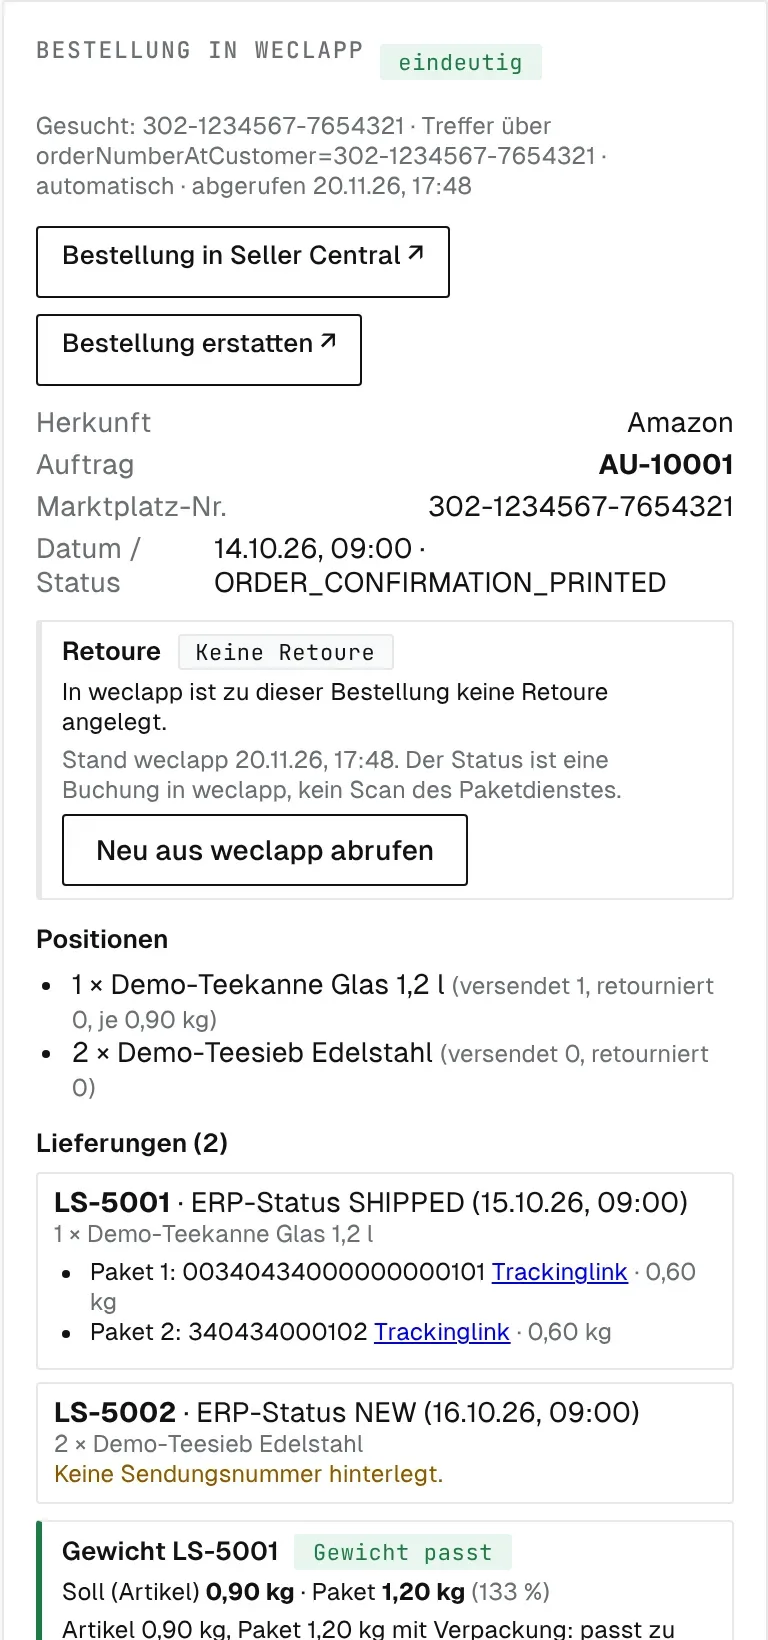
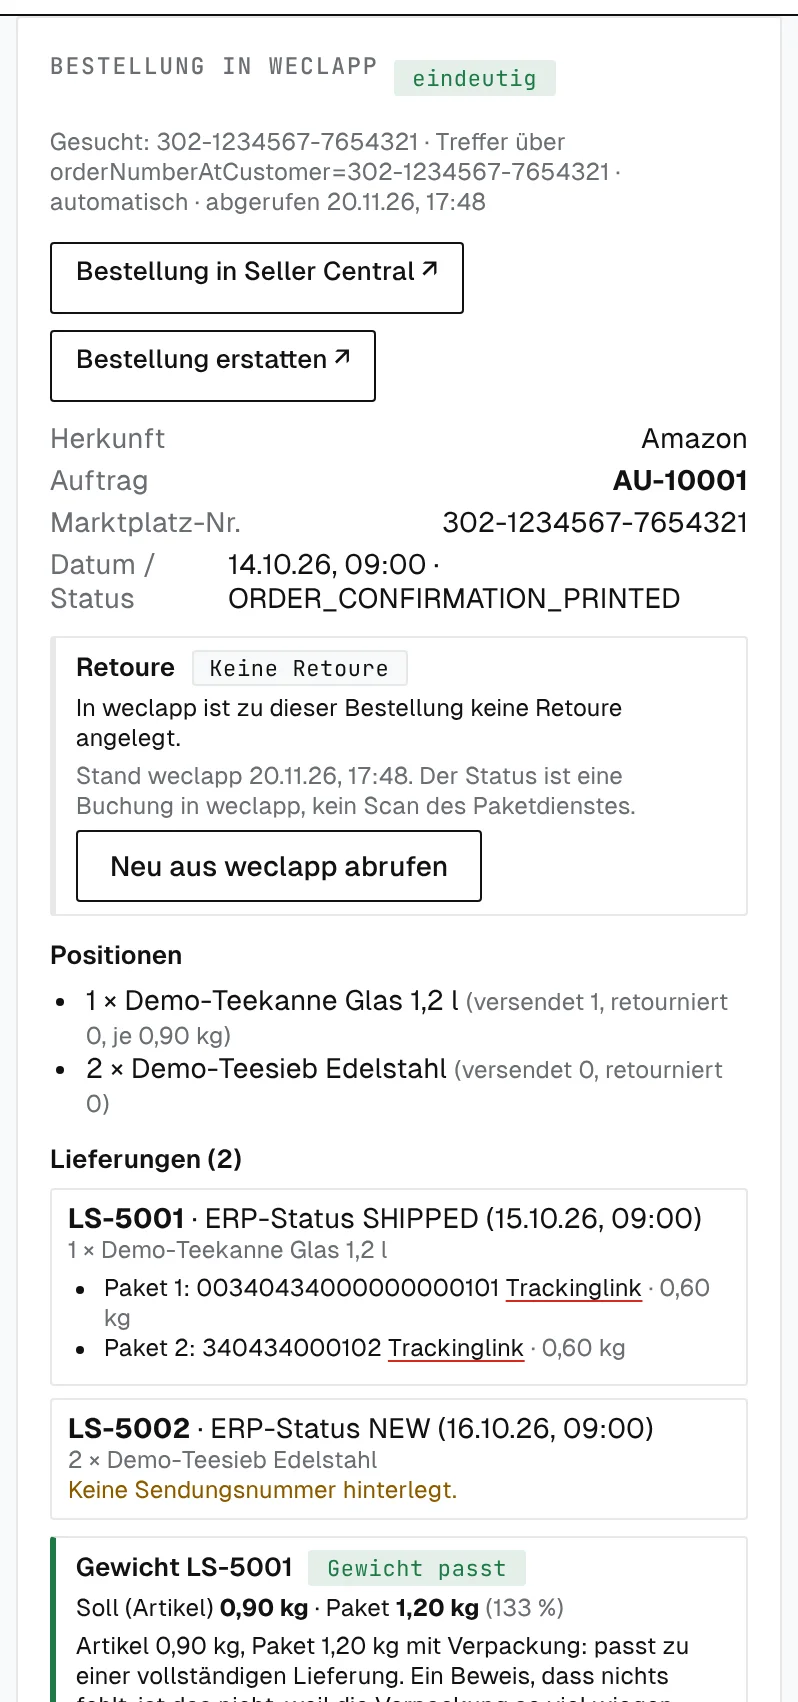
SupportX page: new themes and screenshot crops, lightbox, refund text
Claude-Session: https://claude.ai/code/session_01JnJhZpiW9LUHGCpXo7Yde3

Changed region(s): [[0.0312, 0.0, 0.9062, 1.0], [0.5625, 0.2488, 0.9688, 0.311]]

diff --git a/supportx/index.html b/supportx/index.html
@@ -88,7 +88,7 @@ section.block{padding:112px 0}
 .row ul{margin:20px 0 0;padding:0;list-style:none;display:grid;gap:10px;color:var(--graphite);font-size:16px}
 .row li{padding-left:20px;position:relative}
 .row li::before{content:"";position:absolute;left:0;top:.62em;width:6px;height:6px;background:var(--ink)}
-.row .tall{max-width:360px;margin:0 auto}
+.row .tall{max-width:400px;margin:0 auto}
 @media (max-width:900px){.row,.row.flip{grid-template-columns:1fr;gap:32px}.row.flip .text{order:0}}
 
 /* Feature list */
@@ -102,7 +102,8 @@ section.block{padding:112px 0}
 
 /* Design */
 .paper{background:var(--paper);border-top:1px solid var(--line);border-bottom:1px solid var(--line)}
-.themes{display:grid;grid-template-columns:repeat(3,1fr);gap:24px}
+.themes{display:grid;grid-template-columns:1fr 1fr;gap:24px}
+.themes figure:first-child{grid-column:1 / -1}
 .themes figure{margin:0}
 @media (max-width:900px){.themes{grid-template-columns:1fr}}
 .design-how{display:grid;grid-template-columns:1fr 1fr;gap:48px;margin-top:72px;align-items:start}
@@ -174,6 +175,17 @@ footer nav{display:flex;flex-wrap:wrap;gap:8px 24px}
 footer a{text-decoration:none;color:var(--graphite)}
 footer a:hover{color:var(--ink)}
 .by{font-family:var(--mono);font-size:11px;letter-spacing:.06em;text-transform:uppercase}
+
+/* Lightbox */
+.shot img{cursor:zoom-in}
+dialog.lb{border:0;padding:0;background:transparent;max-width:min(96vw,1800px);max-height:94vh;overflow:visible}
+dialog.lb::backdrop{background:rgb(17 17 17 / .86)}
+dialog.lb img{max-width:min(96vw,1800px);max-height:88vh;width:auto;height:auto;border-radius:var(--r-m);outline:1px solid rgb(255 255 255 / .1);cursor:zoom-out;background:#fff}
+dialog.lb p{color:#d0d3da;font-size:14px;margin-top:10px;max-width:90ch}
+dialog.lb button{position:fixed;top:16px;right:16px;width:44px;height:44px;border:1px solid #2a2a2a;border-radius:var(--r-s);background:#111;color:#fff;font:500 22px var(--sans);cursor:pointer}
+dialog.lb[open]{animation:lbin var(--duration-fast) var(--ease-smooth-out)}
+@keyframes lbin{from{opacity:0;transform:scale(.97)}}
+@media (prefers-reduced-motion:reduce){dialog.lb[open]{animation:none}}
 </style>
 </head>
 <body>
@@ -200,7 +212,7 @@ footer a:hover{color:var(--ink)}
   <div class="wrap">
     <span class="mono eyebrow">Open Source · AGPLv3 · selbst gehostet</span>
     <h1>Ein Posteingang für alle Marktplätze. <span>Mit der Bestellung im Fall.</span></h1>
-    <p class="lead">SupportX sammelt Kundenmails und Marktplatz-Nachrichten an einem Ort, sucht die passende Bestellung in weclapp und schreibt einen Antwortentwurf, der nur belegte Fakten nennt. Ein Mensch prüft und sendet. Läuft auf Ihrem Server, sieht aus wie Ihre Marke, der Code liegt offen.</p>
+    <p class="lead">SupportX sammelt Kundenmails und Marktplatz-Nachrichten an einem Ort, sucht die passende Bestellung in weclapp und schreibt einen Antwortentwurf, der nur belegte Fakten nennt. Ein Mensch prüft und sendet. Erstattungen gehen direkt im Marktplatz raus, die Gutschrift landet im ERP. Läuft auf Ihrem Server, sieht aus wie Ihre Marke, der Code liegt offen.</p>
     <div class="ctas">
       <a class="btn btn-primary" href="https://github.com/tradex-ag/SupportX">Code auf GitHub</a>
       <a class="btn btn-line" href="https://tradexag.ch/termin/">Gehostete Version anfragen</a>
@@ -209,7 +221,7 @@ footer a:hover{color:var(--ink)}
       <span>Kostenlos selbst hosten</span><span>Design frei anpassbar</span><span>Daten bleiben bei Ihnen</span>
     </div>
     <figure class="shot" style="margin-bottom:0">
-      <img src="img/posteingang.webp" width="2400" height="1500" alt="SupportX Posteingang: links die Liste der Anfragen mit Kanal, Anliegen und Frist, rechts ein Amazon-Fall mit Kundennachricht, Verlauf und der zugeordneten Bestellung aus weclapp">
+      <img src="img/posteingang.webp" width="2400" height="1067" alt="SupportX Posteingang: links die Liste der Anfragen mit Kanal, Anliegen und Frist, rechts ein Amazon-Fall mit Kundennachricht, Verlauf und der zugeordneten Bestellung aus weclapp">
     </figure>
     <figcaption>Posteingang mit geöffnetem Amazon-Fall. Echte Oberfläche, Demo-Installation mit erfundenen Kunden und Bestellungen.</figcaption>
   </div>
@@ -244,7 +256,7 @@ footer a:hover{color:var(--ink)}
           <li>Kundenhistorie aus früheren Fällen</li>
         </ul>
       </div>
-      <figure class="shot tall" style="margin:0 auto"><img src="img/bestellung.webp" width="768" height="1640" loading="lazy" alt="Bestellkarte in SupportX mit weclapp-Auftrag, Positionen, zwei Lieferungen, Gewichtsprüfung, Rechnung und DHL-Zustellstatus"></figure>
+      <figure class="shot tall" style="margin:0 auto"><img src="img/bestellung.webp" width="798" height="1702" loading="lazy" alt="Bestellkarte in SupportX mit weclapp-Auftrag, Positionen, zwei Lieferungen, Gewichtsprüfung, Rechnung und DHL-Zustellstatus"></figure>
     </div>
 
     <div class="row flip">
@@ -256,9 +268,10 @@ footer a:hover{color:var(--ink)}
           <li>Senden mit einem Klick, höchstens eine Antwort je Kundennachricht</li>
           <li>Antwort geht über den Weg, auf dem die Frage kam</li>
           <li>Versand bleibt aus, bis er je Kanal geprüft und freigeschaltet ist</li>
+          <li>Kunde hat recht? Erstattung direkt im Marktplatz auslösen, Gutschrift im ERP</li>
         </ul>
       </div>
-      <figure class="shot" style="margin:0"><img src="img/antwort.webp" width="2400" height="1500" loading="lazy" alt="Antwortbereich in SupportX mit Entscheidungsknöpfen, Entwurfstext, Anhang, belegten Fakten und dem gelben Hinweis, warum Senden noch gesperrt ist"></figure>
+      <figure class="shot tall" style="margin:0 auto"><img src="img/antwort.webp" width="1226" height="1744" loading="lazy" alt="Antwortbereich in SupportX mit Entscheidungsknöpfen, Entwurfstext, Anhang, belegten Fakten und dem gelben Hinweis, warum Senden noch gesperrt ist"></figure>
     </div>
 
     <div class="row">
@@ -267,19 +280,19 @@ footer a:hover{color:var(--ink)}
         <h3>Sehen, wo es klemmt.</h3>
         <p>Antwortzeit, eingehaltene Fristen, Anliegen je Kanal und Probleme je Artikel aus weclapp. So fällt auf, welcher Artikel öfter beschädigt ankommt oder falsch geliefert wird.</p>
       </div>
-      <figure class="shot" style="margin:0"><img src="img/auswertung.webp" width="2400" height="1500" loading="lazy" alt="Auswertungsseite mit Antwortzeit, Anliegen, Kanälen und Problemen je Artikel"></figure>
+      <figure class="shot" style="margin:0"><img src="img/auswertung.webp" width="2400" height="1100" loading="lazy" alt="Auswertungsseite mit Antwortzeit, Anliegen, Kanälen und Problemen je Artikel"></figure>
     </div>
 
     <div class="list" style="margin-top:56px">
       <div><h3>Fristen-Ampel</h3><p>Antwortfrist je Marktplatz, Amazon 24 Stunden. Was zuerst abläuft, steht oben.</p></div>
       <div><h3>Textbausteine</h3><p>Platzhalter wie {Bestellnummer} oder {Trackinglink} füllt SupportX aus weclapp, ohne KI-Kosten.</p></div>
       <div><h3>Rechnung senden</h3><p>Holt das Rechnungs-PDF der Bestellung aus weclapp und hängt es an die Antwort.</p></div>
-      <div><h3>Erstattungsliste</h3><p>Jede Erstattung einmal je Bestellung, bis die Gutschrift in weclapp angelegt ist.</p></div>
-      <div><h3>Amazon aus dem Fall</h3><p>Falsches Angebot beenden oder eine Erstattung auslösen, immer mit Bestätigung, nie automatisch.</p></div>
+      <div><h3>Erstatten im Marktplatz</h3><p>Erstattung aus dem Fall direkt bei Amazon auslösen, je Artikel und Versand, nie mehr als bezahlt. Mit Bestätigung, nie automatisch.</p></div>
+      <div><h3>Gutschrift im ERP</h3><p>Nach der Erstattung schlägt SupportX die Gutschrift je Rechnungsposition vor und legt sie in weclapp als Entwurf an. Die Erstattungsliste zeigt, was noch offen ist.</p></div>
       <div><h3>Telefon-Hotline</h3><p>Ein Sprachagent beantwortet Lieferstatus und Rechnung, erst nach Abgleich mit weclapp.</p></div>
+      <div><h3>Falsches Angebot beenden</h3><p>Stimmt das Amazon-Angebot nicht, lässt es sich aus dem Fall heraus beenden, nach einer Bestätigung.</p></div>
       <div><h3>Weiterleiten</h3><p>Mails an Lieferanten oder Spediteure weitergeben, Marktplatz-Relays ohne E-Mail-Adressen.</p></div>
-      <div><h3>Team</h3><p>Rollen Inhaber, Bearbeiter, Leser. Sichtbar, wer einen Fall gerade offen hat.</p></div>
-      <div><h3>Arbeitsbereiche</h3><p>Mehrere Händlerkonten sauber getrennt, Zugangsdaten verschlüsselt auf dem Server.</p></div>
+      <div><h3>Team und Mandanten</h3><p>Rollen Inhaber, Bearbeiter, Leser. Mehrere Händlerkonten sauber getrennt, Zugangsdaten verschlüsselt auf dem Server.</p></div>
     </div>
   </div>
 </section>
@@ -292,9 +305,9 @@ footer a:hover{color:var(--ink)}
       <p class="lead">Name, Logo, Farben, Schriften und Eckenradius stehen in einer Datei, nicht im Code. Ein Update überschreibt sie nicht. Wer mehr will, ändert den Quellcode: Er liegt offen.</p>
     </div>
     <div class="themes">
-      <figure><div class="shot"><img src="img/posteingang.webp" width="2400" height="1500" loading="lazy" alt="SupportX im Standard-Design: Schwarz, Weiß, rotes Signal"></div><figcaption>Standard</figcaption></figure>
-      <figure><div class="shot"><img src="img/theme-gruen.webp" width="2400" height="1500" loading="lazy" alt="Dieselbe Oberfläche als „Kundenservice“ in Grün mit runderen Ecken"></div><figcaption>„Kundenservice“ in Grün, Radius 8</figcaption></figure>
-      <figure><div class="shot"><img src="img/theme-blau.webp" width="2400" height="1500" loading="lazy" alt="Dieselbe Oberfläche als „Apotheken-Service“ in Blau mit stark gerundeten Ecken"></div><figcaption>„Apotheken-Service“ in Blau, Radius 14</figcaption></figure>
+      <figure><div class="shot"><img src="img/theme-dunkel.webp" width="2400" height="1067" loading="lazy" alt="SupportX als „Help Desk“ im dunklen Design mit gelbem Akzent"></div><figcaption>„Help Desk“: dunkel, Gelb, Radius 6</figcaption></figure>
+      <figure><div class="shot"><img src="img/theme-rosa.webp" width="2400" height="1067" loading="lazy" alt="SupportX als „Kundenglück“ in Rosa mit stark gerundeten Ecken"></div><figcaption>„Kundenglück“: Rosa, rund, Radius 20</figcaption></figure>
+      <figure><div class="shot"><img src="img/theme-mono.webp" width="2400" height="1067" loading="lazy" alt="SupportX als „Service-Desk“ in Papierfarben, Monospace-Schrift und eckig"></div><figcaption>„Service-Desk“: Papier, Monospace, eckig</figcaption></figure>
     </div>
     <div class="design-how">
       <div>
@@ -308,16 +321,18 @@ footer a:hover{color:var(--ink)}
       </div>
       <pre class="code" aria-label="Beispiel theme.json"><span class="k">// theme/theme.json</span>
 {
-  "productName": "Kundenservice",
-  "logo": "logo.svg",
+  "productName": "Help Desk",
+  "logo": "logo.png",
   "colors": {
-    "background": "#f4f7f2",
-    "text": "#1f2a1c",
-    "primary": "#2f6b2a",
-    "accent": "#2f6b2a"
+    "background": "#0f1115",
+    "surface": "#171a21",
+    "text": "#f2f3f5",
+    "line": "#2a2f39",
+    "primary": "#f5b301",
+    "primaryText": "#111111",
+    "accent": "#f5b301"
   },
-  "fonts": { "sans": "\"Helvetica Neue\", Arial" },
-  "radius": 8
+  "radius": 6
 }</pre>
     </div>
   </div>
@@ -328,7 +343,7 @@ footer a:hover{color:var(--ink)}
     <div>
       <span class="mono eyebrow">Selbst hosten</span>
       <h2 style="margin:16px 0 20px">Die Demo startet mit einem Befehl.</h2>
-      <p class="lead">Die Demo startet mit erfundenen Daten und lokalen Stellvertretern für weclapp und Microsoft. Für den Betrieb gibt es ein Docker-Compose-Setup für einen Server mit automatischem HTTPS.</p>
+      <p class="lead">Sie läuft mit erfundenen Daten und lokalen Stellvertretern für weclapp und Microsoft. Für den Betrieb gibt es ein Docker-Compose-Setup für einen Server mit automatischem HTTPS.</p>
       <ul class="checks">
         <li>Ihr Microsoft-Tenant, Ihr weclapp, Ihr KI-Schlüssel, Ihr Server</li>
         <li>Für Amazon und eBay eine eigene Entwickler-App (SP-API, eBay Developer Program)</li>
@@ -472,5 +487,14 @@ footer a:hover{color:var(--ink)}
     </nav>
   </div>
 </footer>
+<dialog class="lb" id="lb" aria-label="Screenshot groß"><button type="button" id="lbx" aria-label="Schließen">×</button><img id="lbimg" alt=""><p id="lbcap"></p></dialog>
+<script>
+(function(){var d=document.getElementById('lb'),im=document.getElementById('lbimg'),cap=document.getElementById('lbcap');
+if(!d||!d.showModal)return;
+document.querySelectorAll('.shot img').forEach(function(img){img.tabIndex=0;img.setAttribute('role','button');
+ var open=function(){im.src=img.currentSrc||img.src;im.alt=img.alt;cap.textContent=img.alt;d.showModal();};
+ img.addEventListener('click',open);img.addEventListener('keydown',function(e){if(e.key==='Enter'||e.key===' '){e.preventDefault();open();}});});
+d.addEventListener('click',function(e){if(e.target!==cap)d.close();});})();
+</script>
 </body>
 </html>
